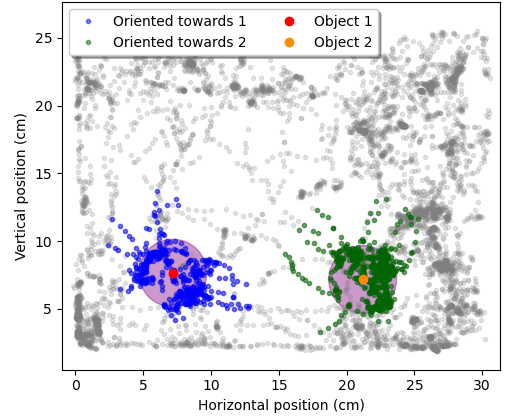
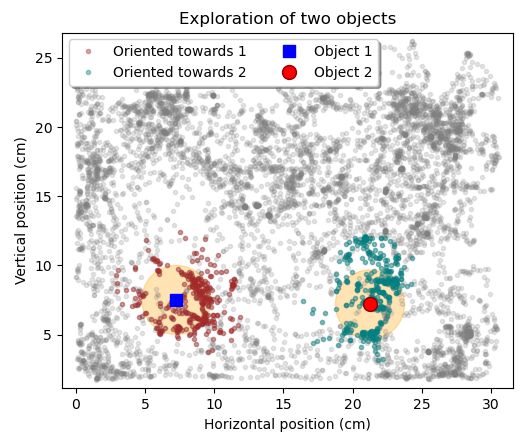
Added Make_video to the repository

diff --git a/2-Make_video.py b/2-Make_video.py
@@ -1,0 +1,123 @@
+# -*- coding: utf-8 -*-
+"""
+Created on Tue Feb 20 17:28:57 2024
+
+@author: dhers
+"""
+
+import pandas as pd
+import numpy as np
+import os
+import matplotlib.pyplot as plt
+from matplotlib.animation import FuncAnimation
+from matplotlib.patches import Circle
+
+class Point:
+    def __init__(self, df, table):
+        x = df[f'{table}_x']
+        y = df[f'{table}_y']
+        self.positions = np.dstack((x, y))[0]
+
+def plot_position_video(file, save_path, maxDistance=2.5, max_nose_points=10, start_seconds = 20, end_seconds = 25, fps = 25):
+    
+    df = pd.read_csv(file)
+    df = df.loc[start_seconds*fps:end_seconds*fps]
+    
+    filename = os.path.splitext(os.path.basename(file))[0]
+
+    obj1 = Point(df, 'obj_1')
+    obj2 = Point(df, 'obj_2')
+    nose = Point(df, 'nose')
+    head = Point(df, 'head')
+    neck = Point(df, 'neck')
+    L_ear = Point(df, 'L_ear')
+    R_ear = Point(df, 'R_ear')
+    body = Point(df, 'body')
+    tail_1 = Point(df, 'tail_1')
+    tail_2 = Point(df, 'tail_2')
+    tail_3 = Point(df, 'tail_3')
+    
+    fig, ax = plt.subplots()
+    ax.set_xlabel("Horizontal position (cm)")
+    ax.set_ylabel("Vertical position (cm)")
+    plt.title(f"Analysis of {filename}")
+    plt.tight_layout()
+    ax.axis('equal')
+    
+    ax.set_xlim(0, 35)  # Set x-axis limits
+    ax.set_ylim(0, 21)  # Set y-axis limits
+
+    ax.plot(*obj1.positions[0], "s", lw = 20, label = "Object 1", color = "blue", markersize = 22, markeredgecolor = "darkblue")
+    ax.plot(*obj2.positions[0], "o", lw = 20, label = "Object 2", color = "red", markersize = 25, markeredgecolor = "darkred")
+
+    ax.add_artist(Circle(obj1.positions[0], 2.5, color = "orange", alpha = 0.3))
+    ax.add_artist(Circle(obj2.positions[0], 2.5, color = "orange", alpha = 0.3))
+    # ax.legend(bbox_to_anchor=(0, 0, 1, 1), ncol=2, loc='upper left', fancybox=True, shadow=True)
+
+    def update(frame):
+        ax.clear()  # Clear the previous plot
+        
+        ax.set_xlabel("Horizontal position (cm)")
+        ax.set_ylabel("Vertical position (cm)")
+        plt.title("Dynamic exploration of two objects")
+        plt.tight_layout()
+        ax.axis('equal')
+        
+        ax.set_xlim(0, 35)  # Set x-axis limits
+        ax.set_ylim(0, 21)  # Set y-axis limits
+    
+        ax.plot(*obj1.positions[0], "s", lw = 20, label = "Object 1", color = "blue", markersize = 22, markeredgecolor = "darkblue")
+        ax.plot(*obj2.positions[0], "o", lw = 20, label = "Object 2", color = "red", markersize = 25, markeredgecolor = "darkred")
+    
+        ax.add_artist(Circle(obj1.positions[0], 2.5, color = "orange", alpha = 0.3))
+        ax.add_artist(Circle(obj2.positions[0], 2.5, color = "orange", alpha = 0.3))
+        # ax.legend(bbox_to_anchor=(0, 0, 1, 1), ncol=2, loc='upper left', fancybox=True, shadow=True)
+        
+        start_frame = max(0, frame - max_nose_points)  # Start frame for plotting nose points
+        ax.plot(*nose.positions[start_frame:frame].T, "o", color="green", alpha=0.5)
+        ax.plot(*nose.positions[frame].T, ".", color="grey", alpha=0.75)
+        ax.plot(*head.positions[frame].T, ".", color="grey", alpha=0.75)
+        ax.plot(*neck.positions[frame].T, ".", color="grey", alpha=0.75)
+        ax.plot(*L_ear.positions[frame].T, ".", color="grey", alpha=0.75)
+        ax.plot(*R_ear.positions[frame].T, ".", color="grey", alpha=0.75)
+        ax.plot(*body.positions[frame].T, ".", color="grey", alpha=0.75)
+        ax.plot(*tail_1.positions[frame].T, ".", color="grey", alpha=0.75)
+        ax.plot(*tail_2.positions[frame].T, ".", color="grey", alpha=0.75)
+        ax.plot(*tail_3.positions[frame].T, ".", color="grey", alpha=0.75)
+        
+        # Add lines between body parts (for example, from nose to head)
+        ax.plot([nose.positions[frame][0], head.positions[frame][0]],
+                [nose.positions[frame][1], head.positions[frame][1]], '-', color='black', alpha=0.5)
+        ax.plot([nose.positions[frame][0], L_ear.positions[frame][0]],
+                [nose.positions[frame][1], L_ear.positions[frame][1]], '-', color='black', alpha=0.5)
+        ax.plot([nose.positions[frame][0], R_ear.positions[frame][0]],
+                [nose.positions[frame][1], R_ear.positions[frame][1]], '-', color='black', alpha=0.5)
+        ax.plot([head.positions[frame][0], neck.positions[frame][0]],
+                [head.positions[frame][1], neck.positions[frame][1]], '-', color='black', alpha=0.5)
+        ax.plot([neck.positions[frame][0], body.positions[frame][0]],
+                [neck.positions[frame][1], body.positions[frame][1]], '-', color='black', alpha=0.5)
+        ax.plot([body.positions[frame][0], tail_1.positions[frame][0]],
+                [body.positions[frame][1], tail_1.positions[frame][1]], '-', color='black', alpha=0.5)
+        ax.plot([tail_1.positions[frame][0], tail_2.positions[frame][0]],
+                [tail_1.positions[frame][1], tail_2.positions[frame][1]], '-', color='black', alpha=0.5)
+        ax.plot([tail_2.positions[frame][0], tail_3.positions[frame][0]],
+                [tail_2.positions[frame][1], tail_3.positions[frame][1]], '-', color='black', alpha=0.5)
+
+    ani = FuncAnimation(fig, update, frames=len(nose.positions), interval=14.5, repeat=True)
+    
+    ani.save(save_path, writer='imagemagick')  # Requires ImageMagick to be installed
+    
+    #plt.show()
+    
+    return ani
+
+example_path = r'C:/Users/dhers/Desktop/Videos_NOR/2022-02_TORM_3h/TS/position/2022-02_TORM_3h_TS_C3_B_L_position.csv'
+output_path = r'C:/Users/dhers/Desktop/mouse_exploring.gif'
+
+# Example usage
+plot_position_video(example_path, output_path, maxDistance=2.5, max_nose_points=10, start_seconds = 22.9, end_seconds = 33.6, fps = 25)
+
+
+
+
+

diff --git a/5-Seize_Labels.py b/5-Seize_Labels.py
@@ -25,17 +25,17 @@ path = r'C:/Users/dhers/Desktop/Videos_NOR/'
 # In the lab:
 # path = r'/home/usuario/Desktop/Santi D/Videos_NOR/' 
 
-experiment = r'2022-01_TORM_3h'
+experiment = r'2024-01_Extinction'
 
 # Complete with the different stages of the experiment
 stages = ["TR1", "TR2", "TS"] # Tip: Put TS last, so that rename_labels can return the path to it's folder
 
 # State which labels you want to use
-label_type = "geolabels"
+label_type = "autolabels"
 
 # State the groups in the experiment
 
-groups = ["Male", "Female"]
+#groups = ["Male", "Female"]
 
 #groups = ["Old_1h", "Recent_1h"]
 
@@ -357,7 +357,7 @@ def plot_groups(path, name_start, experiment, labels_folder, fps=25):
     Hab = all_Hab.groupby('Frame').agg(['mean', 'std']).reset_index()
         
     # Create a single figure
-    fig, axes = plt.subplots(2, 3, figsize=(12, 8))
+    fig, axes = plt.subplots(2, 3, figsize=(16, 8))
     
     TS['time_seconds'] = TS['Frame'] / fps
     TR2['time_seconds'] = TR2['Frame'] / fps
@@ -598,9 +598,11 @@ def plot_all(path, name_start, experiment, labels_folder, fps = 25):
 def plot_experiment(path, groups, experiment, labels_folder, fps=25):
     
     # Create a single figure
-    fig, axes = plt.subplots(2, 3, figsize=(15, 10))
+    fig, axes = plt.subplots(2, 3, figsize=(16, 8))
     
     bxplt_positions = list(range(1, len(groups) + 1))
+    
+    maxtime = 5
     
     for i, name_start in enumerate(groups):
         # Initialize an empty list to store DataFrames
@@ -676,7 +678,7 @@ def plot_experiment(path, groups, experiment, labels_folder, fps=25):
         
         maxtime = max(TR1.loc[TR1.index[-1], (f'{A_TR1}' ,'mean')], TR1.loc[TR1.index[-1], (f'{B_TR1}' ,'mean')], 
                       TR2.loc[TR2.index[-1], (f'{A_TR2}' ,'mean')], TR2.loc[TR2.index[-1], (f'{B_TR2}' ,'mean')], 
-                      TS.loc[TS.index[-1], (f'{A_TS}' ,'mean')], TS.loc[TS.index[-1], (f'{B_TS}' ,'mean')], 5) + 2
+                      TS.loc[TS.index[-1], (f'{A_TS}' ,'mean')], TS.loc[TS.index[-1], (f'{B_TS}' ,'mean')], maxtime) + 2
         
         # Hab
         axes[0, 0].plot(Hab['time_seconds'], Hab[("nose_dist_cumsum" ,'mean')], label = f'{A_Hab} {name_start}')
@@ -763,7 +765,7 @@ def plot_experiment(path, groups, experiment, labels_folder, fps=25):
 def plot_both_IDs(path, groups, experiment, labels_folder, fps=25):
     
     # Create a single figure
-    fig, axes = plt.subplots(2, 2, figsize=(8, 8))
+    fig, axes = plt.subplots(2, 2, figsize=(12, 8))
     
     bxplt_positions = list(range(1, len(groups) + 1))
     
@@ -828,7 +830,7 @@ def plot_both_IDs(path, groups, experiment, labels_folder, fps=25):
         axes[1, 0].set_xlabel('Time (s)')
         axes[1, 0].set_xticks([0, 60, 120, 180, 240, 300])
         axes[1, 0].axhline(y=0, color='black', linestyle='--', linewidth = 2)
-        axes[1, 0].set_ylabel('DI (%)')
+        axes[1, 0].set_ylabel('Time diffence between objects (s)')
         #axes[1, 0].set_ylim(-40, 60)
         #axes[1, 0].axhline(y=0, color='black', linestyle='--', linewidth = 2)
         axes[1, 0].set_title('Discrimination Index 2')
@@ -843,7 +845,7 @@ def plot_both_IDs(path, groups, experiment, labels_folder, fps=25):
         axes[1, 1].scatter([i + 1 + np.random.uniform(-jitter_amount, jitter_amount) for _ in range(len(bxplt2[0]))], bxplt2[0], alpha=0.7, label=f'{name_start}')
         
         axes[1, 1].axhline(y=0, color='black', linestyle='--', linewidth = 2)
-        axes[1, 1].set_ylabel('DI (%)')
+        axes[1, 1].set_ylabel('Time diffence between objects (s)')
         axes[1, 1].set_title('Boxplot of DI for each group')
     
     plt.suptitle(f"Analysis of: {experiment}", y=0.98)  # Add DataFrame name as the overall title

diff --git a/2-Geometric_Labeling.py b/2-Geometric_Labeling.py
@@ -91,7 +91,7 @@ path = r'C:/Users/dhers/Desktop/Videos_NOR/'
 # In the lab:
 # path = r'/home/usuario/Desktop/Santi D/Videos_NOR/' 
 
-experiment = r'2024-02_Persistance'
+experiment = r'2022-02_TORM_3h'
 
 Hab_position = find_files(path, experiment, "Hab", "position")
 TR1_position = find_files(path, experiment, "TR1", "position")
@@ -156,8 +156,8 @@ def plot_position(file, maxDistance = 2.5, maxAngle = 45):
     
     # Find points where the mouse is looking at the objects
     # Im asking the nose be closer to the aimed object to filter distant sighting
-    towards1 = nose.positions[(angle1 < maxAngle) & (dist1 < 3 * maxDistance)]
-    towards2 = nose.positions[(angle2 < maxAngle) & (dist2 < 3 * maxDistance)]
+    towards1 = nose.positions[(angle1 < maxAngle) & (dist1 < 2 * maxDistance)]
+    towards2 = nose.positions[(angle2 < maxAngle) & (dist2 < 2 * maxDistance)]
 
     """
     Finally, we can plot the points that match both conditions
@@ -170,16 +170,16 @@ def plot_position(file, maxDistance = 2.5, maxAngle = 45):
     ax.plot(*nose.positions.T, ".", color = "grey", alpha = 0.2)
     
     # Plot the filtered points
-    ax.plot(*towards1.T, ".", label = "Oriented towards 1", color = "blue", alpha = 0.5)
-    ax.plot(*towards2.T, ".", label = "Oriented towards 2", color = "darkgreen", alpha = 0.5)
+    ax.plot(*towards1.T, ".", label = "Oriented towards 1", color = "brown", alpha = 0.4)
+    ax.plot(*towards2.T, ".", label = "Oriented towards 2", color = "teal", alpha = 0.4)
     
     # Plot the objects
-    ax.plot(*obj1.positions[0], "o", lw = 20, label = "Object 1", color = "red")
-    ax.plot(*obj2.positions[0], "o", lw = 20, label = "Object 2", color = "darkorange")
+    ax.plot(*obj1.positions[0], "s", lw = 20, label = "Object 1", color = "blue", markersize = 9, markeredgecolor = "blue")
+    ax.plot(*obj2.positions[0], "o", lw = 20, label = "Object 2", color = "red", markersize = 10, markeredgecolor = "darkred")
     
-    # Plot the circles of distance criteria
-    ax.add_artist(Circle(obj1.positions[0], maxDistance, color = "purple", alpha = 0.4))
-    ax.add_artist(Circle(obj2.positions[0], maxDistance, color = "purple", alpha = 0.4))
+    # Plot circles around the objects
+    ax.add_artist(Circle(obj1.positions[0], 2.5, color = "orange", alpha = 0.3))
+    ax.add_artist(Circle(obj2.positions[0], 2.5, color = "orange", alpha = 0.3))
     
     ax.axis('equal')
     ax.set_xlabel("Horizontal position (cm)")
